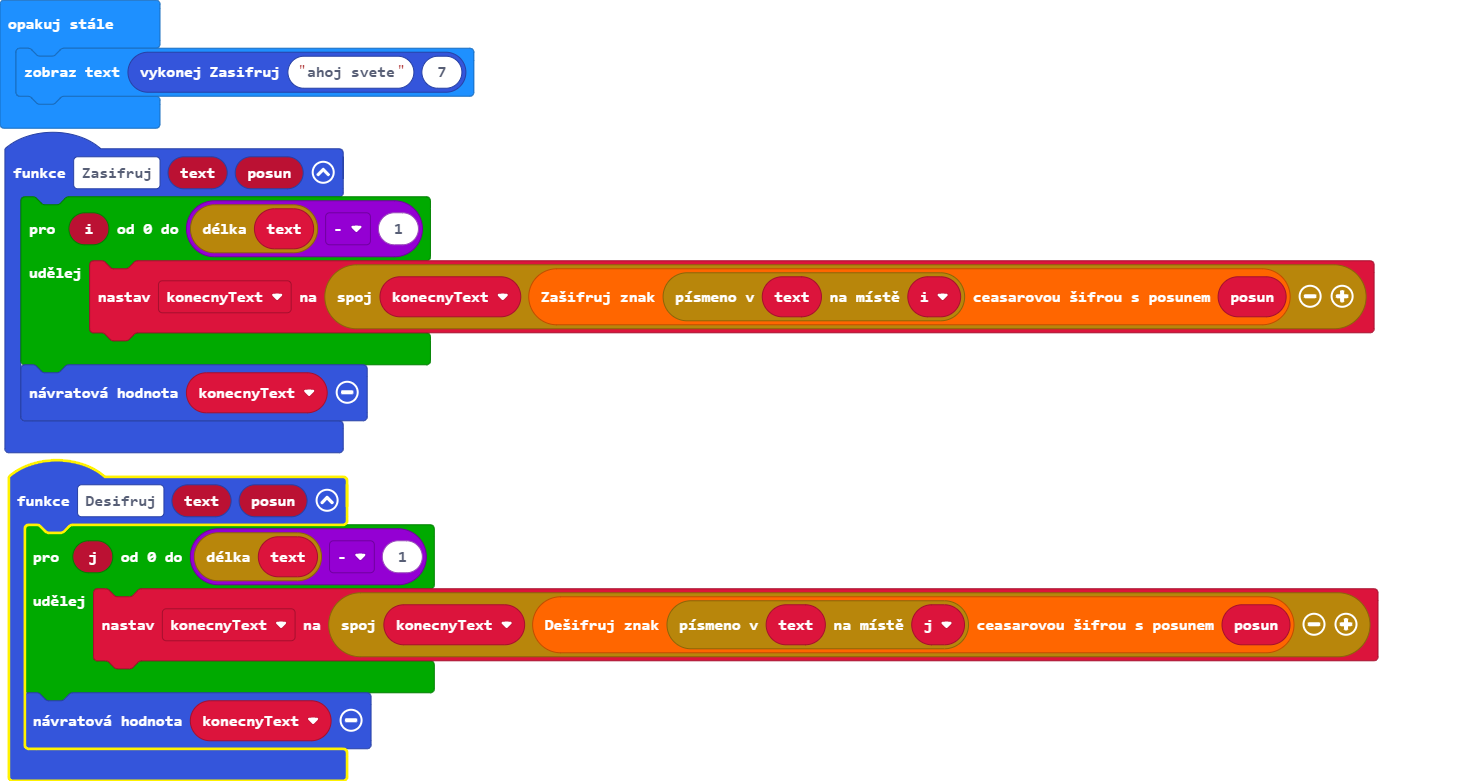
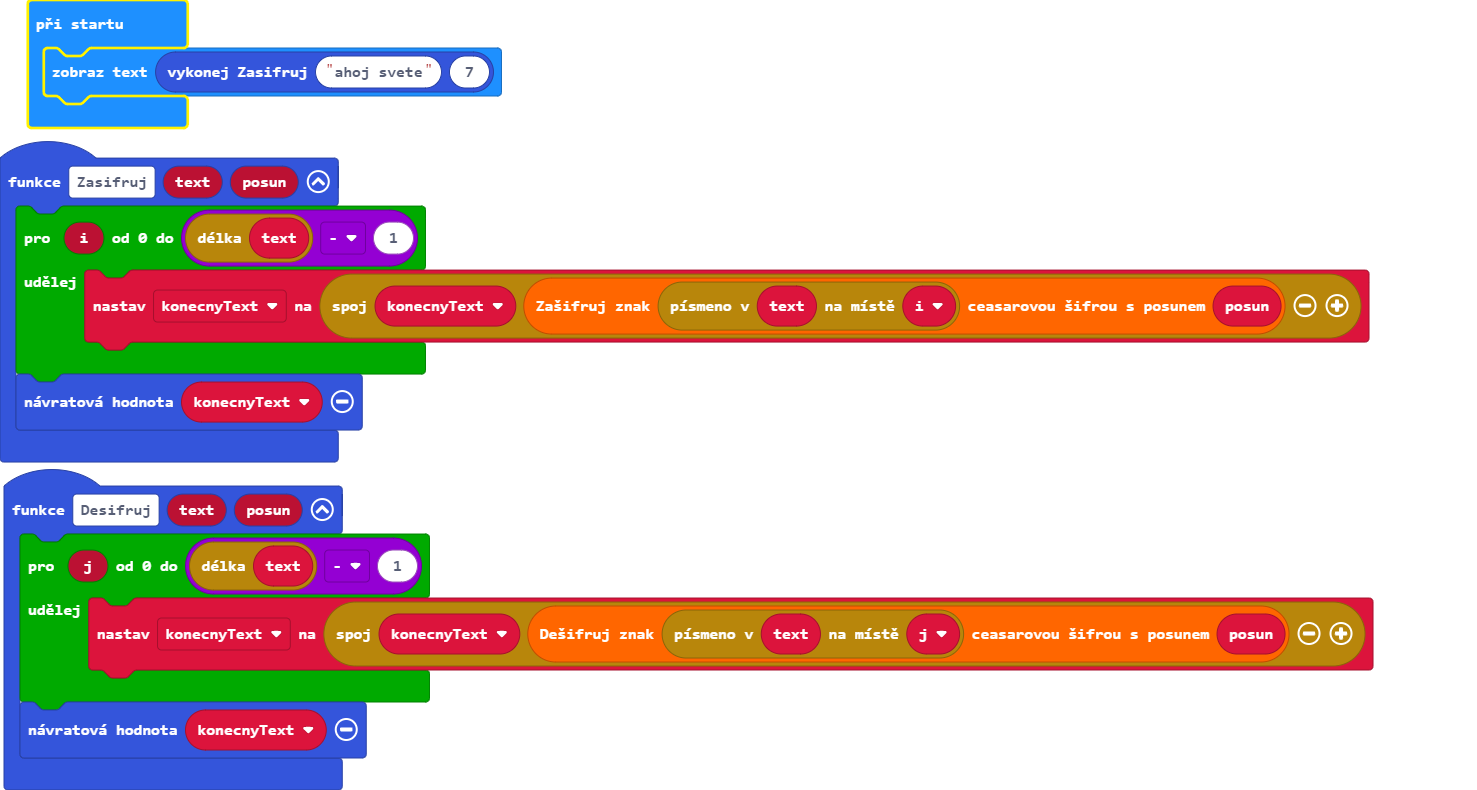
Aktualizovat main.blocks, main.ts

Changed region(s): [[0.0, 0.0, 0.9343, 1.0]]

diff --git a/main.ts b/main.ts
@@ -1,4 +1,3 @@
-let konecnyText = ""
 function Zasifruj (text: string, posun: number) {
     for (let i = 0; i <= text.length - 1; i++) {
         konecnyText = "" + konecnyText + Sifra.Zasifruj(text.charAt(i), posun)
@@ -11,6 +10,5 @@ function Desifruj (text: string, posun: number) {
     }
     return konecnyText
 }
-basic.forever(function () {
-    basic.showString("" + (Zasifruj("ahoj svete", 7)))
-})
+let konecnyText = ""
+basic.showString("" + (Zasifruj("ahoj svete", 7)))
